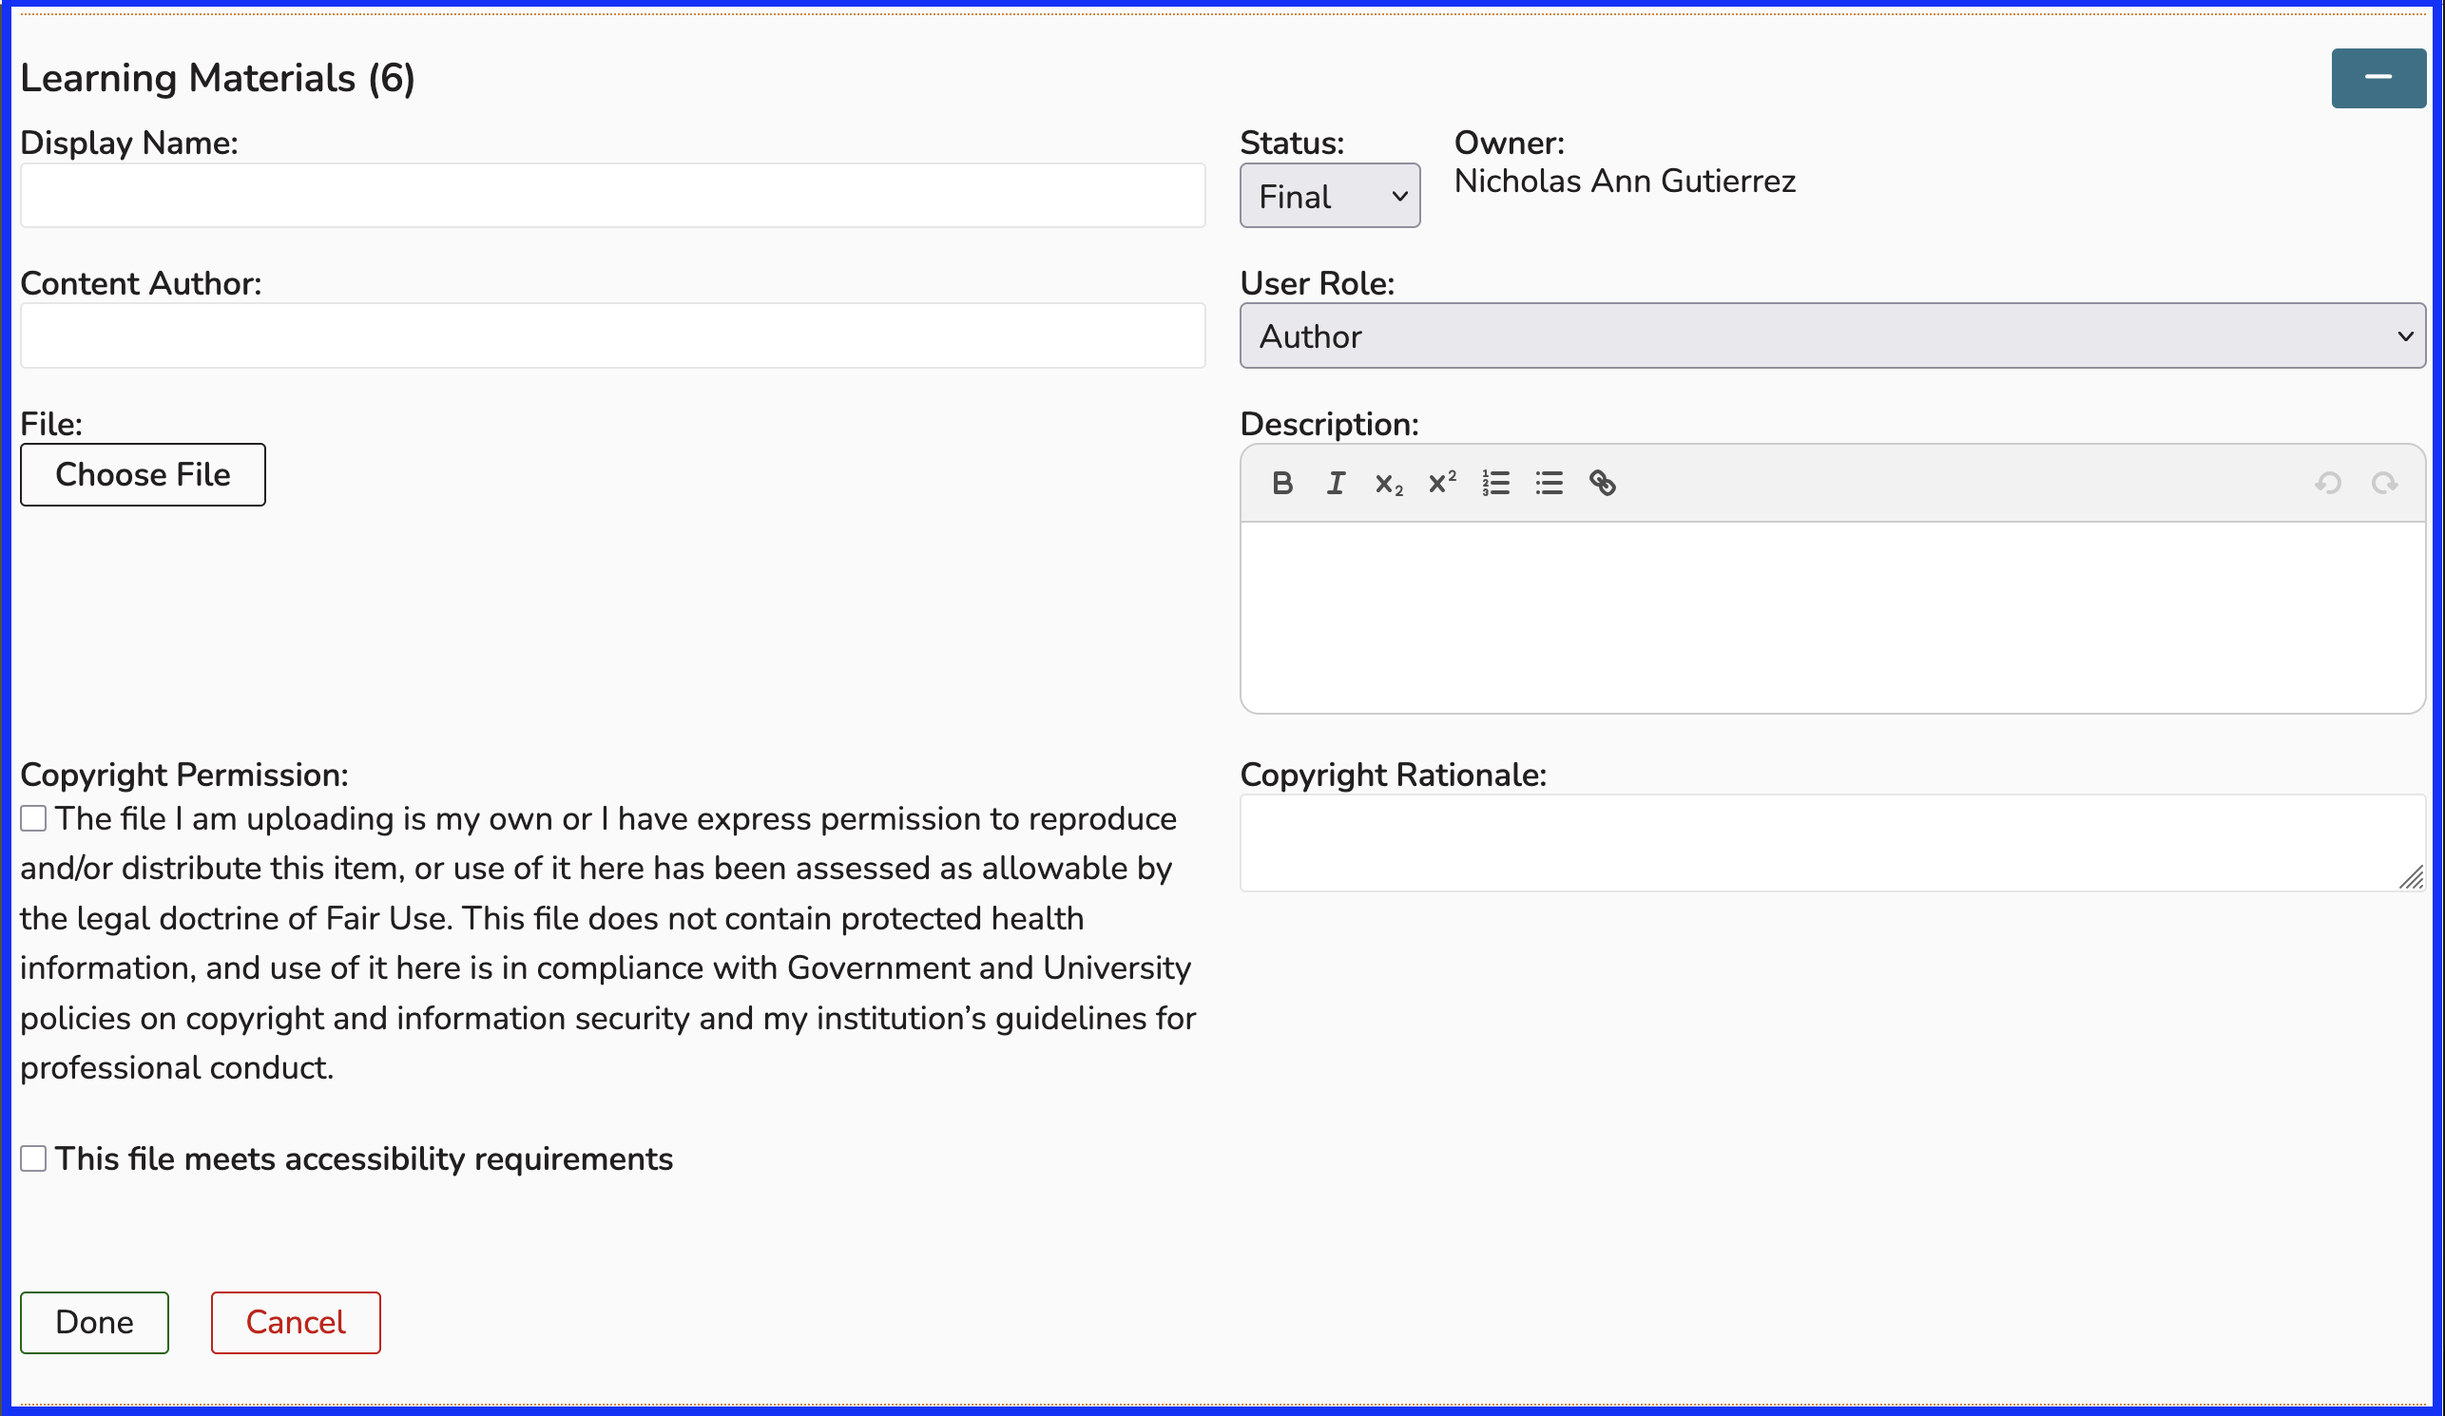
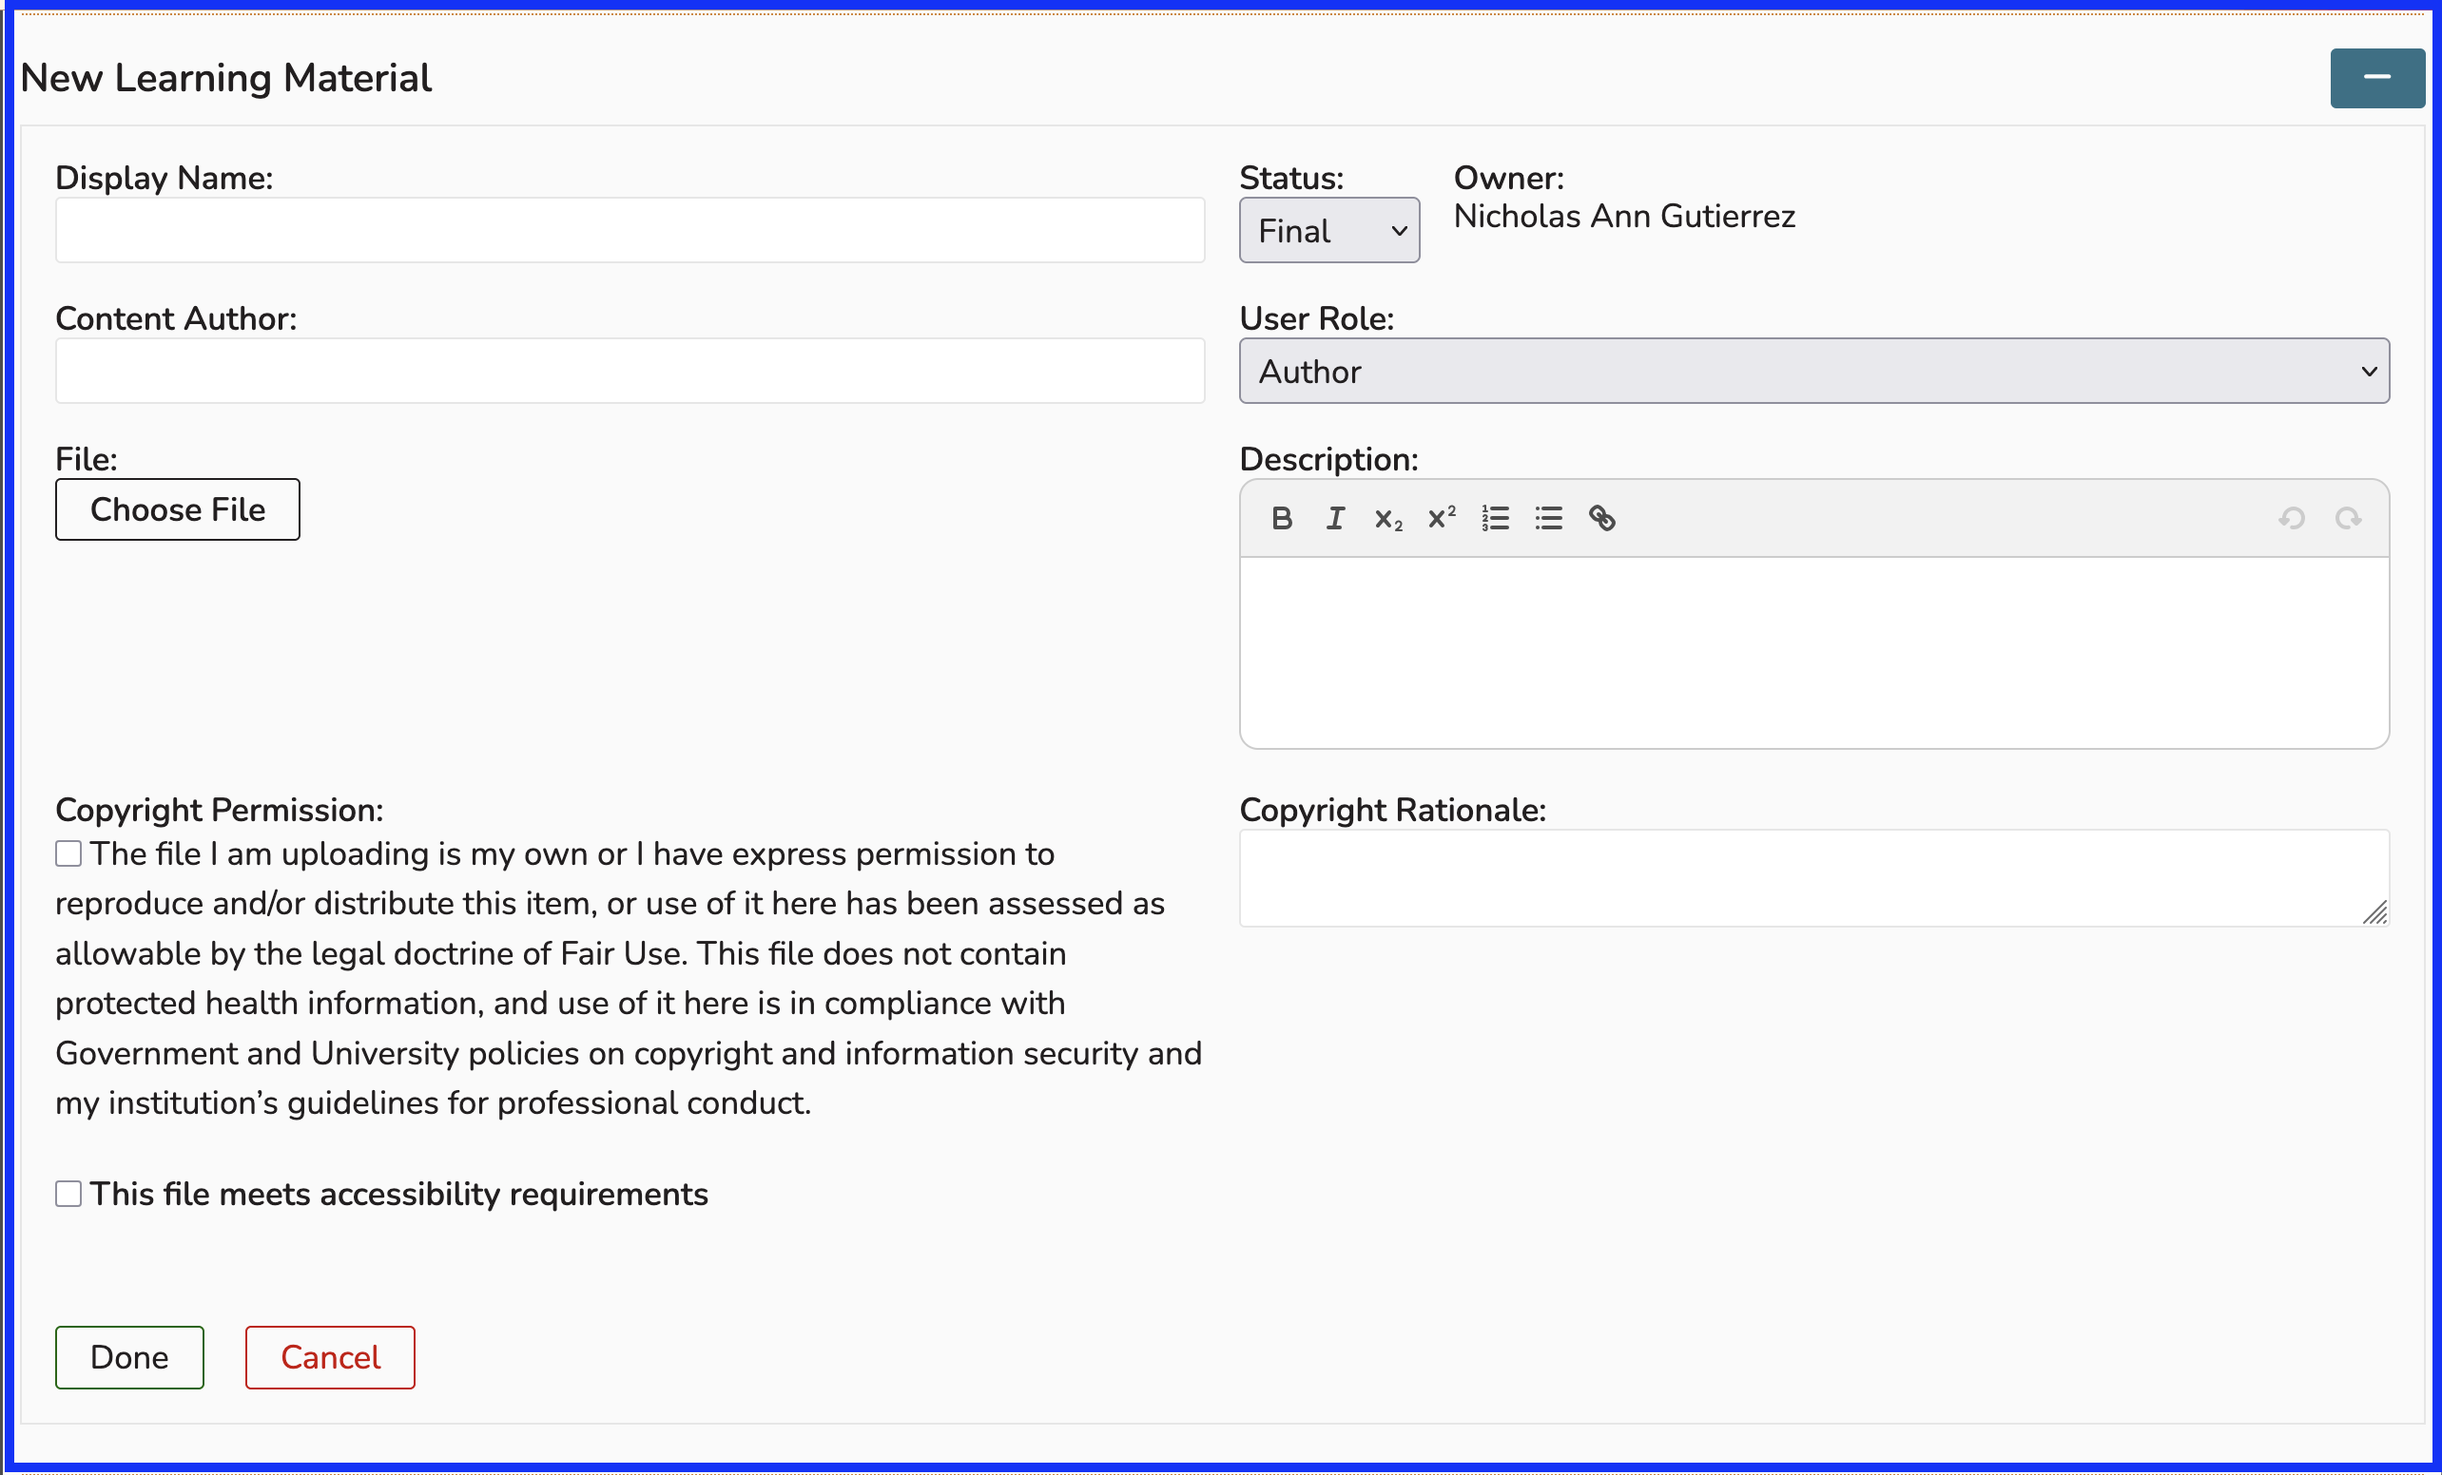
image replaced - slight text update

diff --git a/courses-and-sessions/courses/upload-new-learning-material.md b/courses-and-sessions/courses/upload-new-learning-material.md
@@ -16,7 +16,7 @@ Scroll down to the Learning Materials section of the page. Click the "Add" drop-
 
 ![select type](../../images/course_learning_materials/select_type.png)
 
-After selecting the Learning Material type, when "File" is selected, the screen appears as follows allowing the user to enter and or select some initial data attributes about the file being selected.
+After selecting the type of Learning Material being attached as "File", the screen appears as follows allowing the user to enter and or select some initial data attributes about the file being selected.
 
 ![add initial data](../../images/course_learning_materials/add_initial_data.png)
 
